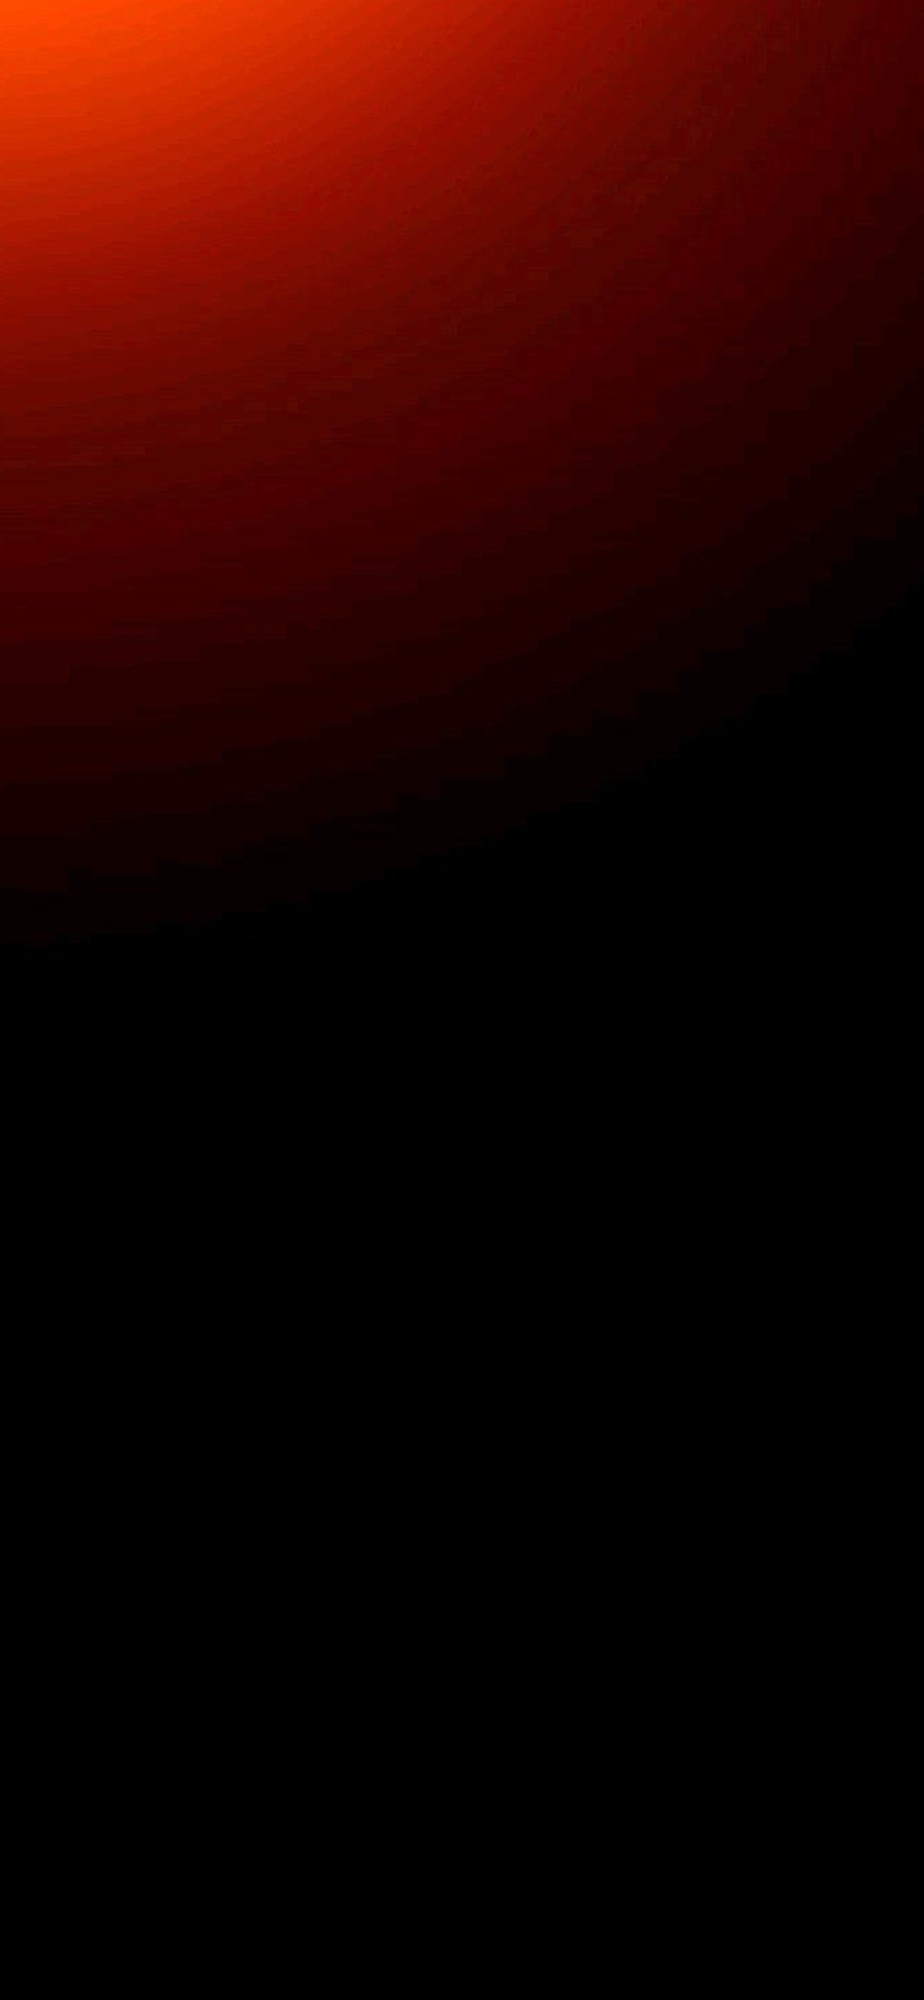
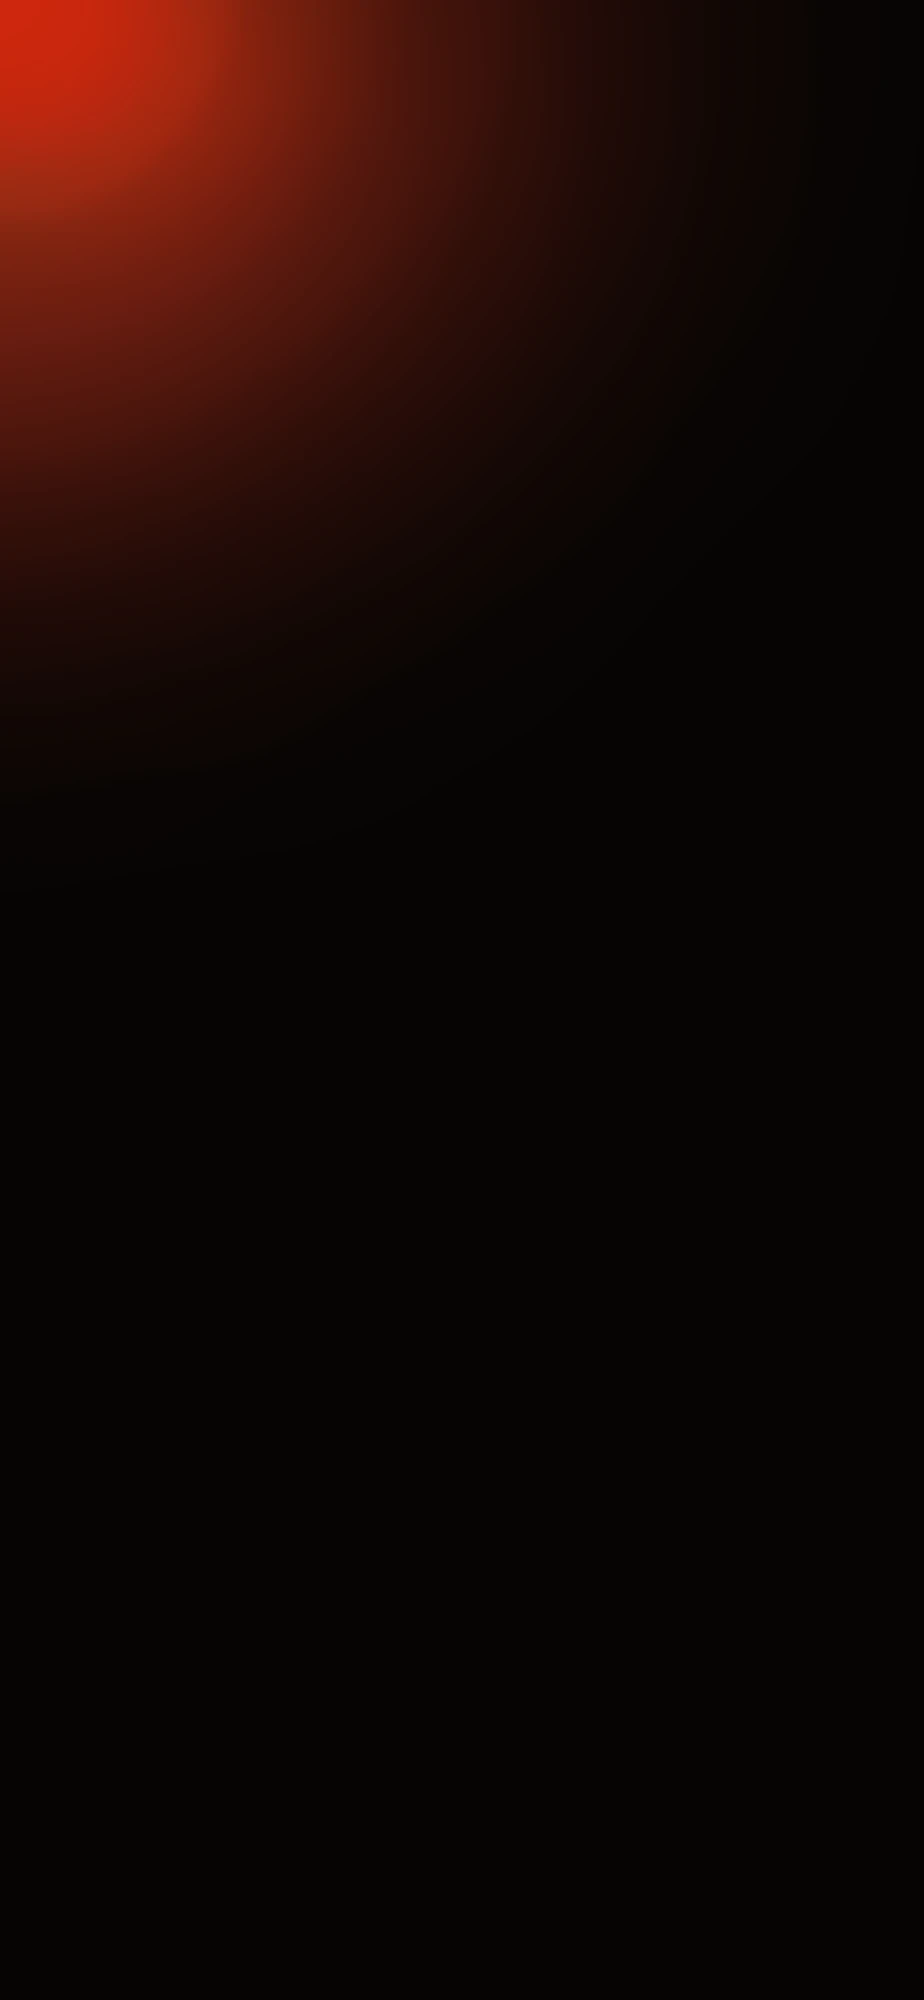
Open on the new dusk design: the corner glow brightens as the line types in
The native splash is now plain near-black, so the glow can rise from faint to
full while "LOOK UP,  JUST FOR A MOMENT" comes in letter by letter.

Changed region(s): [[0.0, 0.0, 1.0, 0.341]]

diff --git a/skywatch/src/components/OpeningScreen.tsx b/skywatch/src/components/OpeningScreen.tsx
@@ -1,27 +1,28 @@
-// The first thing seen on a cold start. It picks up exactly where the native splash
-// leaves off (the same dusk glow, drawn the same way), lets two lines of text light up,
-// then fades onto the app. A tap skips it.
+// The first thing seen on a cold start. It picks up where the native splash leaves off
+// (the same near-black), lets the glow in the corner brighten from faint to full while
+// one line of text comes in letter by letter, then fades onto the app. A tap skips it.
 import * as SplashScreen from 'expo-splash-screen';
 import { useEffect, useRef, useState } from 'react';
-import { Animated, Easing, Image, Platform, Pressable, StyleSheet, View, type TextStyle } from 'react-native';
+import { Animated, Easing, Platform, Pressable, StyleSheet, View } from 'react-native';
 import { easeOut } from './Motion';
 
-// Held until this screen has drawn its glow, so the hand-off from the native splash is seamless.
+// Held until this screen has drawn, so the hand-off from the native splash is seamless.
 SplashScreen.preventAutoHideAsync().catch(() => {});
-// The native splash draws the picture a shade redder; a slow cross-fade hides the difference.
-SplashScreen.setOptions({ fade: true, duration: 500 });
+SplashScreen.setOptions({ fade: true, duration: 300 });
 
 const native = Platform.OS !== 'web';
-const SANS = Platform.select({ ios: 'Avenir Next', default: undefined });
-// The orange of the glow in the corner, so the words read as part of it.
-const ORANGE = '#FF8A3D';
+const SANS = Platform.select({ ios: 'Helvetica Neue', default: undefined });
+// The native splash's colour, and the picture's own black.
+const DARK = '#060403';
 const OPENING = require('../../assets/opening.png');
+// Two spaces after the comma, as in the design.
+const LINE = 'LOOK UP,  JUST FOR A MOMENT';
+const LETTERS = [...LINE];
 
 export function OpeningScreen() {
   const [done, setDone] = useState(false);
-  const first = useRef(new Animated.Value(0)).current;
-  const second = useRef(new Animated.Value(0)).current;
   const glow = useRef(new Animated.Value(0)).current;
+  const letters = useRef(LETTERS.map(() => new Animated.Value(0))).current;
   const fade = useRef(new Animated.Value(1)).current;
   const started = useRef(false);
 
@@ -35,19 +36,16 @@ export function OpeningScreen() {
     if (started.current) return;
     started.current = true;
     SplashScreen.hideAsync().catch(() => {});
-    const show = (v: Animated.Value, delay: number) =>
-      Animated.timing(v, { toValue: 1, duration: 900, delay, easing: easeOut, useNativeDriver: native });
     Animated.sequence([
       Animated.parallel([
-        show(first, 200),
-        show(second, 900),
-        // The glow breathes in once behind the words, and settles a little lower.
-        Animated.sequence([
-          Animated.timing(glow, { toValue: 1, duration: 1000, delay: 200, easing: easeOut, useNativeDriver: native }),
-          Animated.timing(glow, { toValue: 0.55, duration: 900, easing: Easing.inOut(Easing.quad), useNativeDriver: native }),
-        ]),
+        // The light in the corner comes up slowly, like the last of the sun.
+        Animated.timing(glow, { toValue: 1, duration: 2400, easing: Easing.inOut(Easing.cubic), useNativeDriver: native }),
+        Animated.stagger(
+          40,
+          letters.map((v) => Animated.timing(v, { toValue: 1, duration: 700, delay: 500, easing: easeOut, useNativeDriver: native })),
+        ),
       ]),
-      Animated.delay(250),
+      Animated.delay(700),
     ]).start(({ finished }) => finished && leave());
   };
 
@@ -60,68 +58,41 @@ export function OpeningScreen() {
 
   if (done) return null;
 
-  const rise = (v: Animated.Value) => ({
-    opacity: v,
-    transform: [{ translateY: v.interpolate({ inputRange: [0, 1], outputRange: [10, 0] }) }],
-  });
-
   return (
     <Animated.View style={[StyleSheet.absoluteFill, styles.screen, { opacity: fade }]}>
-      <Pressable style={StyleSheet.absoluteFill} onPress={leave} accessibilityRole="button" accessibilityLabel="Look up. Just for a moment.">
-        <Image source={OPENING} style={styles.backdrop} resizeMode="cover" onLoadEnd={start} />
-        <View style={styles.words}>
-          <Animated.View style={rise(first)}>
-            <GlowText style={styles.line} glow={glow}>
-              Look up.
-            </GlowText>
-          </Animated.View>
-          <Animated.View style={[rise(second), styles.closer]}>
-            <GlowText style={styles.line} glow={glow}>
-              Just for a moment.
-            </GlowText>
-          </Animated.View>
+      <Pressable style={StyleSheet.absoluteFill} onPress={leave} accessibilityRole="button" accessibilityLabel="Look up, just for a moment">
+        <Animated.Image
+          source={OPENING}
+          style={[styles.backdrop, { opacity: glow.interpolate({ inputRange: [0, 1], outputRange: [0.12, 1] }) }]}
+          resizeMode="cover"
+          onLoadEnd={start}
+        />
+        <View style={styles.words} aria-hidden>
+          {LETTERS.map((ch, i) => (
+            <Animated.Text
+              key={i}
+              style={[
+                styles.letter,
+                {
+                  opacity: letters[i],
+                  transform: [{ translateY: letters[i].interpolate({ inputRange: [0, 1], outputRange: [8, 0] }) }],
+                },
+              ]}
+            >
+              {ch}
+            </Animated.Text>
+          ))}
         </View>
       </Pressable>
     </Animated.View>
   );
 }
 
-/** Text with a warm halo behind it whose strength follows `glow`. */
-function GlowText({ children, style, glow }: { children: string; style: TextStyle; glow: Animated.Value }) {
-  return (
-    <View>
-      <Animated.Text style={[style, styles.halo, { opacity: glow }]} aria-hidden>
-        {children}
-      </Animated.Text>
-      <Animated.Text style={[style, styles.crisp]}>{children}</Animated.Text>
-    </View>
-  );
-}
-
 const styles = StyleSheet.create({
-  screen: { backgroundColor: '#000', zIndex: 10 },
+  screen: { backgroundColor: DARK, zIndex: 10 },
   // Sized outright: insets alone leave an Image at the picture's own size.
   backdrop: { position: 'absolute', top: 0, left: 0, width: '100%', height: '100%' },
-  words: { flex: 1, alignItems: 'center', justifyContent: 'center', paddingBottom: '12%' },
-  // Both lines alike, read as a single thought.
-  // Takes back the padding between the lines, so they sit as close as plain text would.
-  closer: { marginTop: -22 },
-  // Padded so the halo has room to spread instead of being cut off at the text's edges.
-  line: { fontFamily: SANS, fontSize: 20, fontWeight: '400', letterSpacing: 0.8, textAlign: 'center', paddingHorizontal: 28, paddingVertical: 14 },
-  halo: {
-    position: 'absolute',
-    left: 0,
-    right: 0,
-    top: 0,
-    color: ORANGE,
-    textShadowColor: 'rgba(255,110,40,0.95)',
-    textShadowOffset: { width: 0, height: 0 },
-    textShadowRadius: 22,
-  },
-  crisp: {
-    color: ORANGE,
-    textShadowColor: 'rgba(255,120,50,0.5)',
-    textShadowOffset: { width: 0, height: 0 },
-    textShadowRadius: 6,
-  },
+  // Sits just above the middle, where the design puts it.
+  words: { flex: 1, flexDirection: 'row', alignItems: 'center', justifyContent: 'center', paddingBottom: '4%' },
+  letter: { fontFamily: SANS, fontSize: 12, fontWeight: '400', letterSpacing: 1.3, color: '#fff' },
 });
